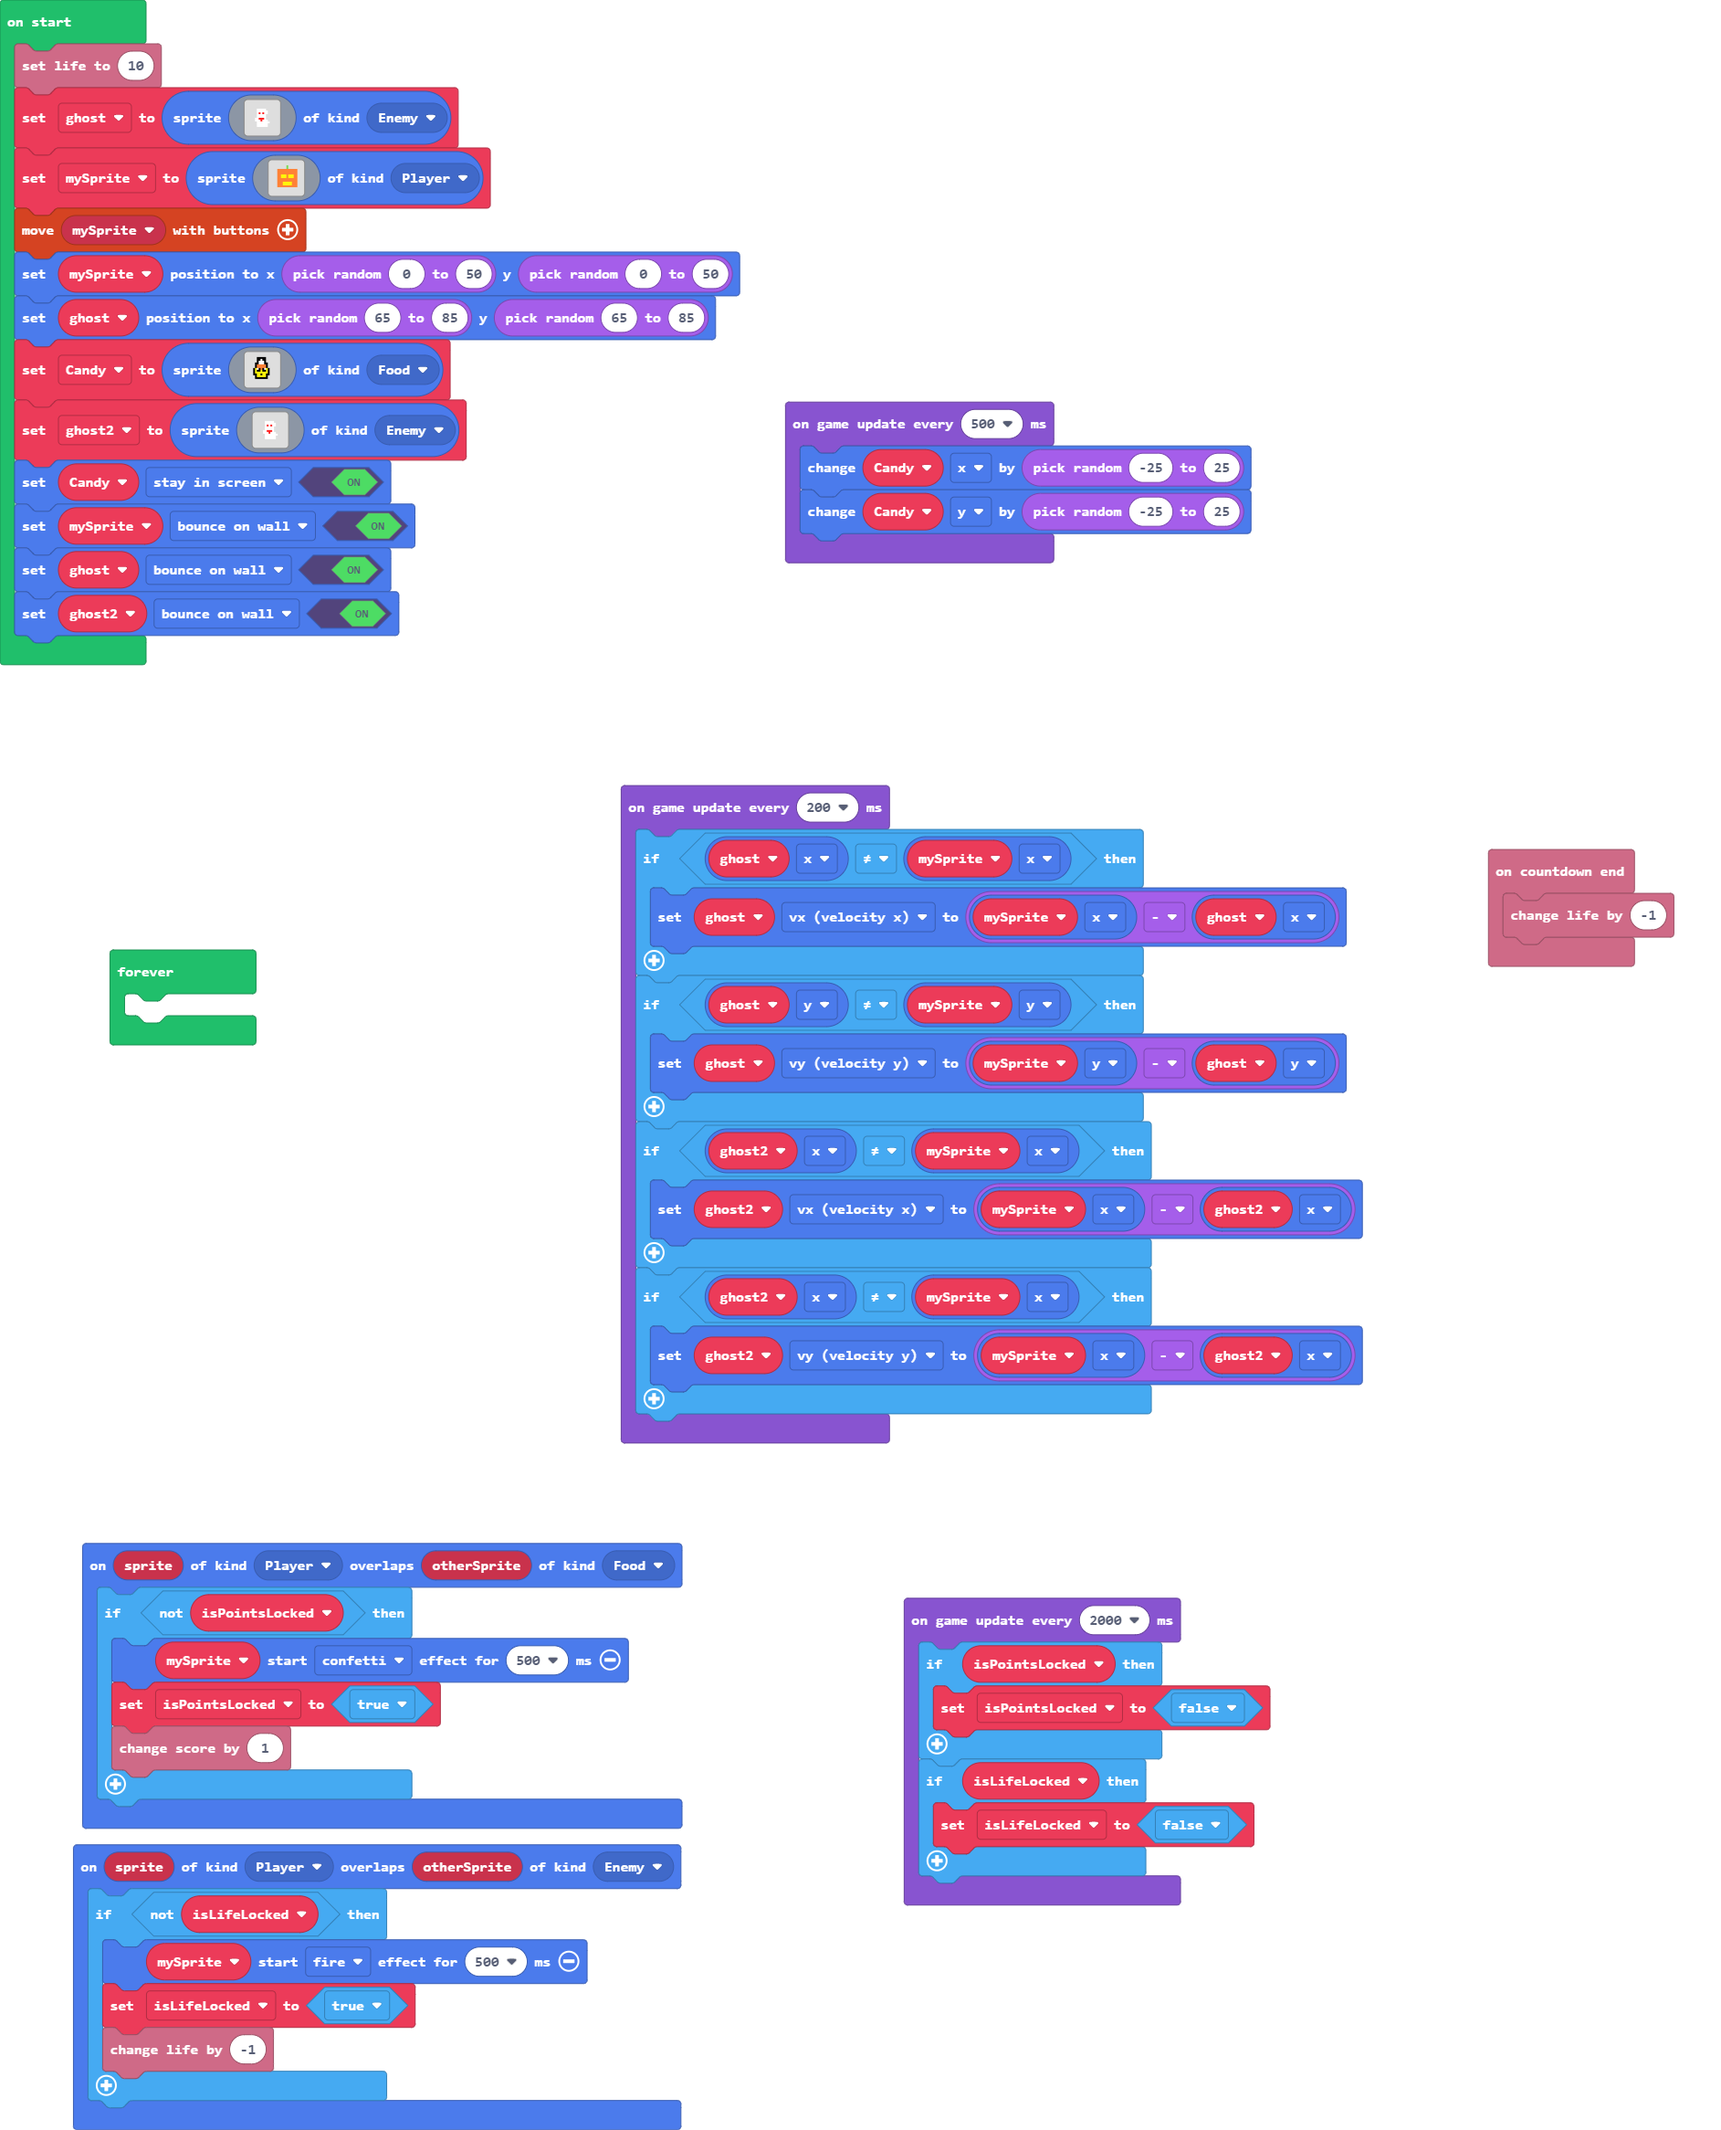
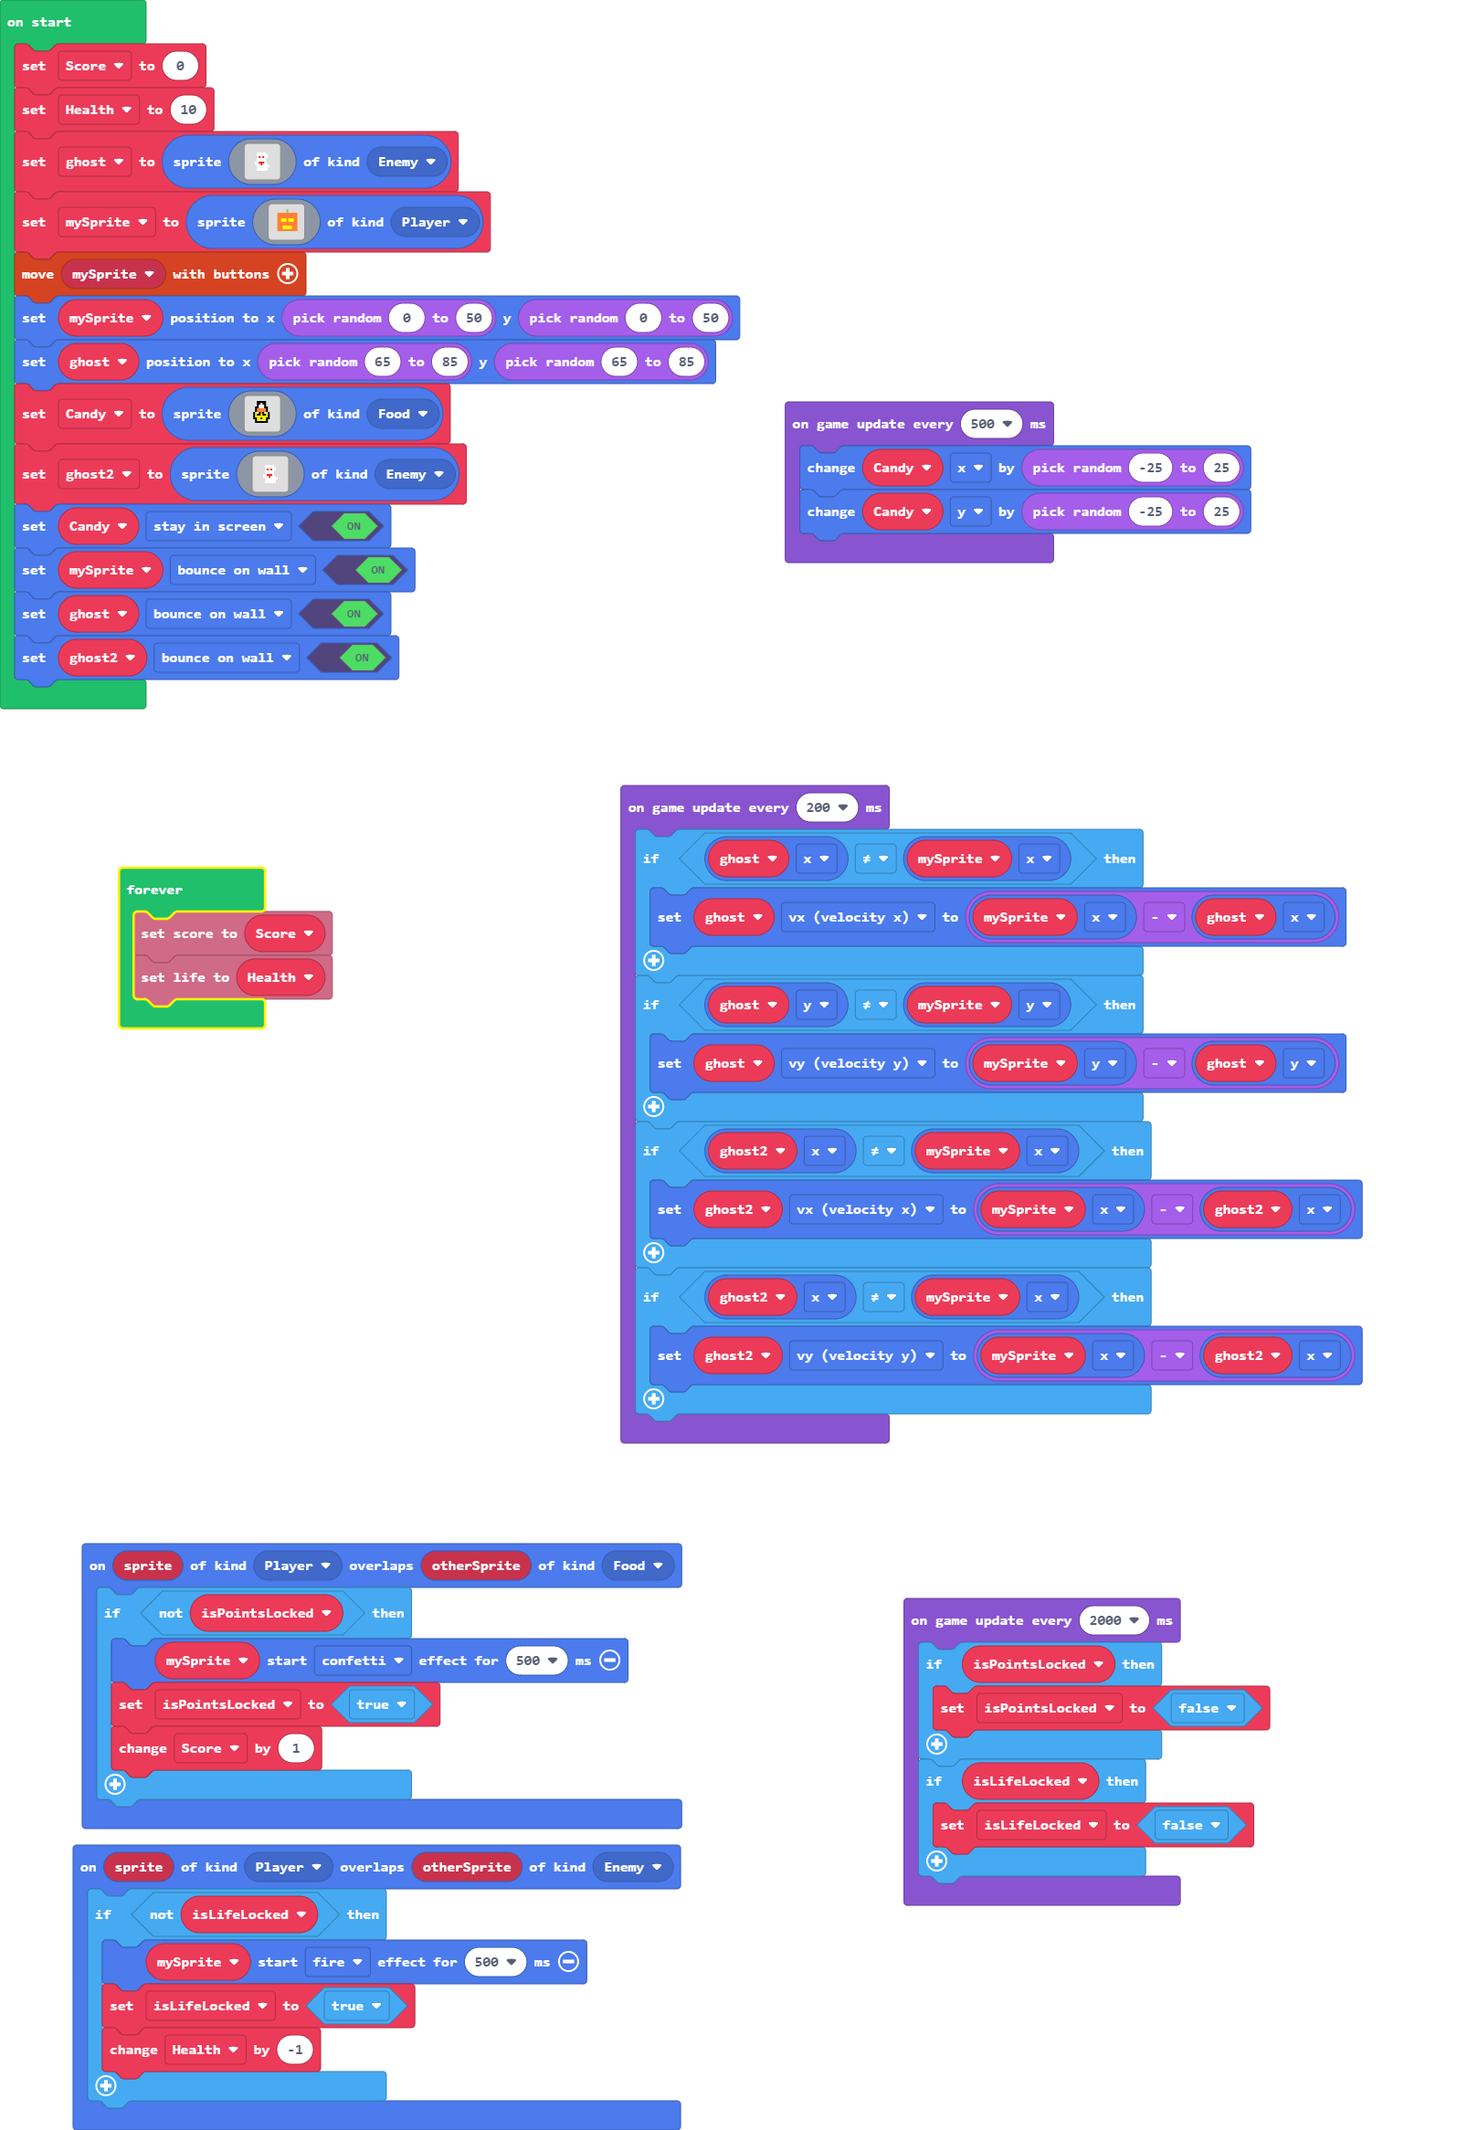
Score/Health Variables are used rather than relying on built in function

diff --git a/main.ts b/main.ts
@@ -1,24 +1,22 @@
-info.onCountdownEnd(function () {
-    info.changeLifeBy(-1)
-})
 sprites.onOverlap(SpriteKind.Player, SpriteKind.Food, function (sprite, otherSprite) {
     if (!(isPointsLocked)) {
         mySprite.startEffect(effects.confetti, 500)
         isPointsLocked = true
-        info.changeScoreBy(1)
+        Score += 1
     }
 })
 sprites.onOverlap(SpriteKind.Player, SpriteKind.Enemy, function (sprite, otherSprite) {
     if (!(isLifeLocked)) {
         mySprite.startEffect(effects.fire, 500)
         isLifeLocked = true
-        info.changeLifeBy(-1)
+        Health += -1
     }
 })
 let isLifeLocked = false
 let isPointsLocked = false
 let mySprite: Sprite = null
-info.setLife(10)
+let Score = 0
+let Health = 10
 let ghost = sprites.create(img`
     . . . . . . . . . . . . . . . . 
     . . . . . . . . . . . . . . . . 
@@ -107,7 +105,8 @@ game.onUpdateInterval(2000, function () {
     }
 })
 forever(function () {
-	
+    info.setScore(Score)
+    info.setLife(Health)
 })
 game.onUpdateInterval(500, function () {
     Candy.x += randint(-25, 25)
